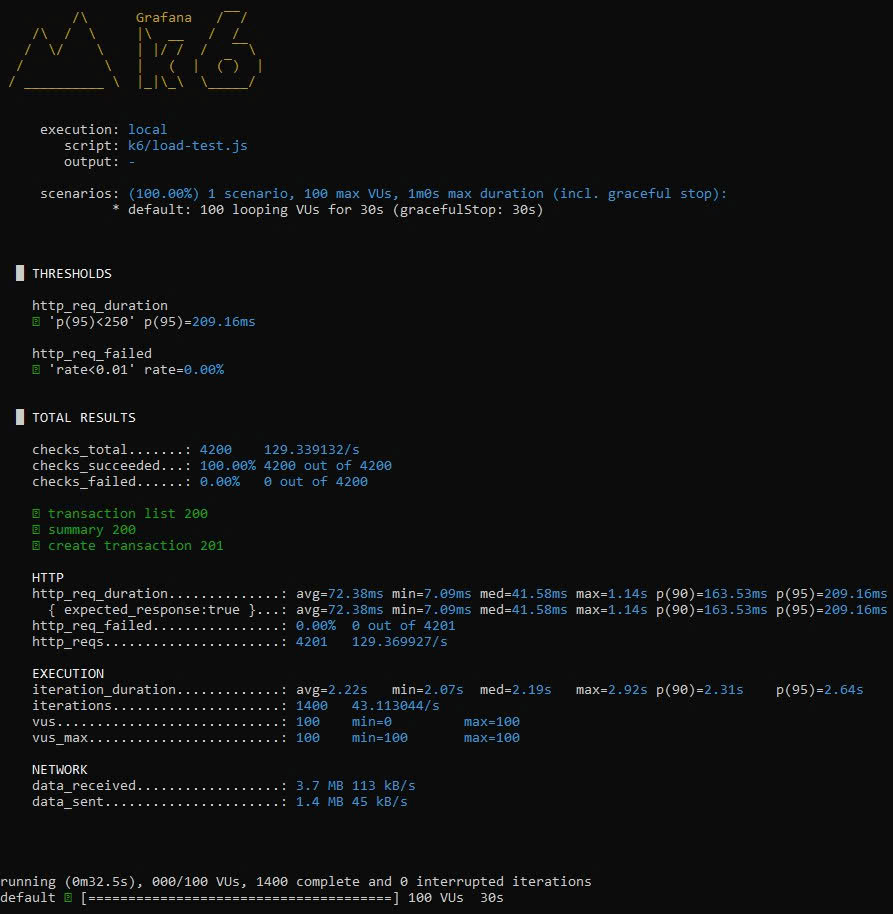
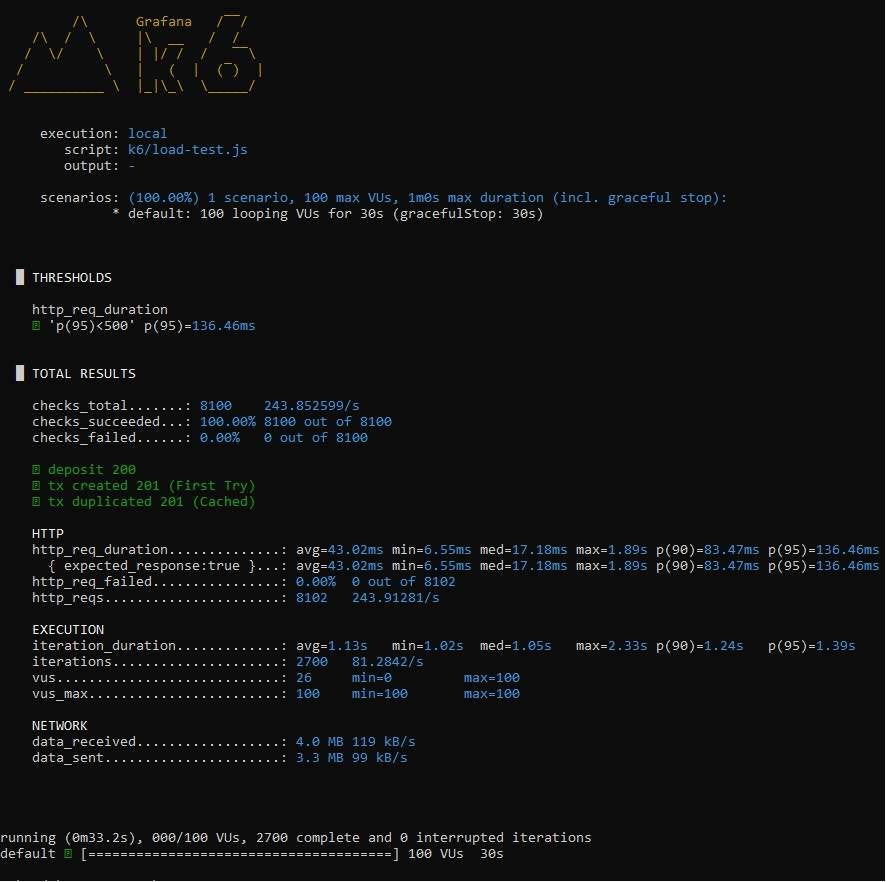
update k6 test

diff --git a/k6/load-test.js b/k6/load-test.js
@@ -1,64 +1,88 @@
 import http from 'k6/http';
 import { check, sleep } from 'k6';
 
-// Config: 100 user đồng thời trong 30 giây
 export const options = {
     vus: 100,
     duration: '30s',
     thresholds: {
-        http_req_duration: ['p(95)<250'], // 95% request phải dưới 250
-        http_req_failed: ['rate<0.01'],   // Error rate dưới 1%
+        http_req_duration: ['p(95)<500'],
     },
 };
 
 const BASE_URL = 'http://localhost:8080';
 
-// Lấy token trước khi test — chạy 1 lần
+// Hàm setup chạy duy nhất 1 lần đầu tiên
 export function setup() {
+    // 1. Login lấy Token
     const loginRes = http.post(`${BASE_URL}/api/auth/login`,
         JSON.stringify({ email: 'test@example11.com', password: 'password123' }),
         { headers: { 'Content-Type': 'application/json' } }
     );
-    return { token: loginRes.json('token') };
+    const token = loginRes.json('token');
+
+    // 2. Tạo ngay 1 cái Wallet mới để test
+    const createWalletRes = http.post(`${BASE_URL}/api/wallets`,
+        JSON.stringify({
+            name: "Ví Test K6 Auto",
+            budget: 50000000 // Setup budget thoải mái
+        }),
+        {
+            headers: {
+                'Content-Type': 'application/json',
+                'Authorization': `Bearer ${token}`
+            }
+        }
+    );
+    const walletId = createWalletRes.json('id'); // Bắt lấy ID của ví vừa tạo
+
+    // 3. Trả về cả token và walletId cho các VUs bên dưới dùng chung
+    return {
+        token: token,
+        walletId: walletId
+    };
 }
 
+// Hàm này sẽ được 100 VUs chạy lặp đi lặp lại
 export default function (data) {
     const headers = {
         'Content-Type': 'application/json',
         'Authorization': `Bearer ${data.token}`,
     };
 
-    // Test 1: GET transactions (có cache Redis)
-    const listRes = http.get(`${BASE_URL}/api/transactions?page=0&size=10`, { headers });
-    check(listRes, {
-        'transaction list 200': (r) => r.status === 200,
-    });
-
-    sleep(0.5);
-
-    // Test 2: GET report/summary (có cache Redis)
-    const summaryRes = http.get(`${BASE_URL}/api/reports/summary`, { headers });
-    check(summaryRes, {
-        'summary 200': (r) => r.status === 200,
-    });
-
-    sleep(0.5);
-
-    // Test 3: POST transaction với Idempotency-Key
-    const idempotencyKey = `test-${__VU}-${__ITER}`; // unique per virtual user + iteration
-    const createRes = http.post(`${BASE_URL}/api/transactions`,
-        JSON.stringify({
-            amount: 50000,
-            date: '2026-05-03',
-            type: 'EXPENSE',
-            note: 'k6 test',
-            categoryId: 6,
-        }),
-        { headers: { ...headers, 'Idempotency-Key': idempotencyKey } }
+    // ==============================================================
+    // BÀI TEST 1: ATOMIC UPDATE (Dùng walletId vừa tạo ở trên)
+    // ==============================================================
+    const depositRes = http.post(`${BASE_URL}/api/wallets/${data.walletId}/deposit`,
+        JSON.stringify({ amount: 1000 }),
+        { headers: headers }
     );
-    check(createRes, {
-        'create transaction 201': (r) => r.status === 201,
+
+    check(depositRes, {
+        'deposit 200': (r) => r.status === 200,
     });
+
+    // ==============================================================
+    // BÀI TEST 2: IDEMPOTENCY KEY
+    // ==============================================================
+    const idempotencyKey = `k6-idemp-${__VU}-${__ITER}`;
+
+    const txPayload = JSON.stringify({
+        amount: 50000,
+        date: '2026-05-03',
+        type: 'EXPENSE',
+        note: `k6 test iter ${__ITER}`,
+        categoryId: 6, // Vẫn dùng ID Category hợp lệ của user này
+    });
+
+    const req1 = http.post(`${BASE_URL}/api/transactions`, txPayload, {
+        headers: { ...headers, 'Idempotency-Key': idempotencyKey }
+    });
+    check(req1, { 'tx created 201 (First Try)': (r) => r.status === 201 });
+
+    const req2 = http.post(`${BASE_URL}/api/transactions`, txPayload, {
+        headers: { ...headers, 'Idempotency-Key': idempotencyKey }
+    });
+    check(req2, { 'tx duplicated 201 (Cached)': (r) => r.status === 201 });
 
     sleep(1);
 }

diff --git a/src/main/java/com/anphan/expensetracker/repository/WalletRepository.java b/src/main/java/com/anphan/expensetracker/repository/WalletRepository.java
@@ -14,7 +14,7 @@ public interface WalletRepository extends JpaRepository<Wallet, Long> {
     @Query("SELECT wm.wallet from WalletMember wm WHERE wm.user = :user")
     List<Wallet> findByMember(@Param("user") User user);
 
-    @Modifying
+    @Modifying(clearAutomatically = true)
     @Query("UPDATE Wallet w SET w.balance = w.balance + :amount WHERE w.id = :id")
     int addBalance(@Param("id") Long id, @Param("amount") BigDecimal amount);
 }
